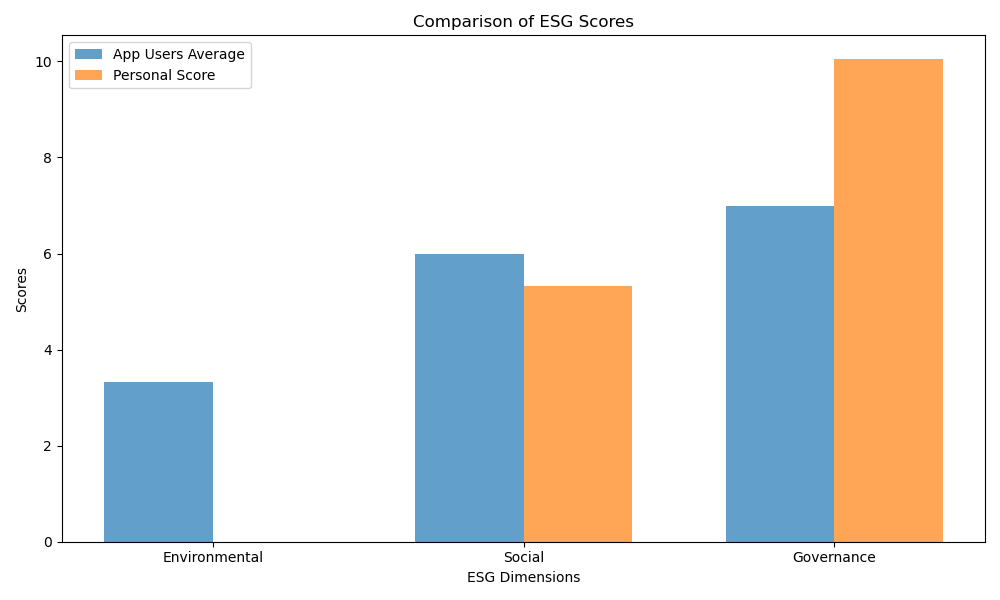
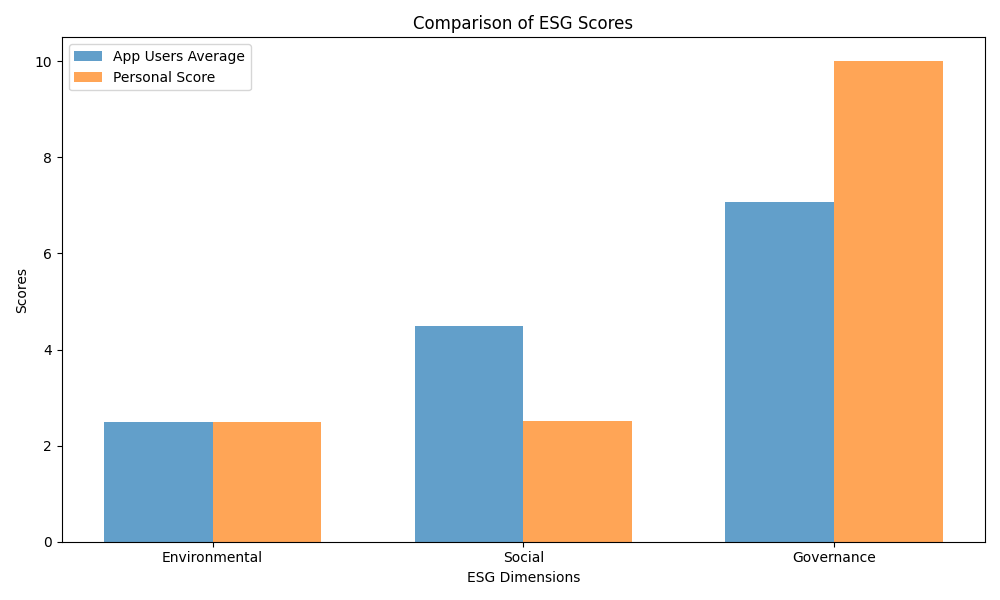
Updated layout with bar graph repositioned

diff --git a/templates/Dashboard.html b/templates/Dashboard.html
@@ -17,6 +17,7 @@
         <div class="title">{{ session['username'] }}'s <span class="green-text">ESG</span>Folio</div>
         <a href="{{ url_for('logout') }}" class="logout">LOGOUT</a>
     </header>
+
     <div class="container">
         <div class="search-bar">
             <span>Add New Stock</span>
@@ -25,6 +26,8 @@
                 <button type="submit">Search</button>
             </form>
         </div>
+
+        <!-- Rating placeholders -->
         <div class="placeholders-container">
             <div class="placeholder-box" style="{% if totalscore.portfolio_score is not none and totalscore.portfolio_score <= (avgtot[0]/2) %}background-color: red;{% elif totalscore.portfolio_score is not none and totalscore.portfolio_score <= avgtot[0] %}background-color: #FFD700;{% elif totalscore.portfolio_score is not none %}background-color: green;{% endif %}">
                 ESG RATING: {{ (totalscore[3] and maxtot[0]) and ((totalscore[3] / maxtot[0]) * 10) | round(2) or 'N/A' }}
@@ -39,6 +42,8 @@
                 Governmental RATING: {{ (totalscore[2] and maxtot[3]) and ((totalscore[2] * 10 / maxtot[3]) | round(2)) or 'N/A' }}
             </div>
         </div>
+
+        <!-- Table + Graphs stacked -->
         <div class="content">
             <div class="stock-table">
                 <table>
@@ -58,18 +63,10 @@
                         <tr>
                             <td>{{ loop.index }}</td>
                             <td>{{ stock[1] }}</td>
-                            <td style="{% if stock[2] is not none and stock[2] <= avgs[0] %}background-color: red;{% elif stock[2] is not none and stock[2] <= emed[0] %}background-color: #FFD700;{% elif stock[2] is not none %}background-color: green;{% endif %}">
-                                {{ (stock[2] and max[0]) and ((stock[2] * 10 / max[0]) | round(2)) or 'N/A' }}
-                            </td>
-                            <td style="{% if stock[3] is not none and stock[3] <= avgs[1] %}background-color: red;{% elif stock[3] is not none and stock[3] <= smed[0] %}background-color: #FFD700;{% elif stock[3] is not none %}background-color: green;{% endif %}">
-                                {{ (stock[3] and max[1]) and ((stock[3] * 10 / max[1]) | round(2)) or 'N/A' }}
-                            </td>
-                            <td style="{% if stock[4] is not none and stock[4] <= avgs[2] %}background-color: red;{% elif stock[4] is not none and stock[4] <= gmed[0] %}background-color: #FFD700;{% elif stock[4] is not none %}background-color: green;{% endif %}">
-                                {{ (stock[4] and max[2]) and ((stock[4] * 10 / max[2]) | round(2)) or 'N/A' }}
-                            </td>
-                            <td style="{% if stock[5] is not none and stock[5] <= totav[0] %}background-color: red;{% elif stock[5] is not none and stock[5] <= totmed[0] %}background-color: #FFD700;{% elif stock[5] is not none %}background-color: green;{% endif %}">
-                                {{ (stock[5] and max[3]) and ((stock[5] * 10 / max[3]) | round(2)) or 'N/A' }}
-                            </td>
+                            <td>{{ (stock[2] and max[0]) and ((stock[2] * 10 / max[0]) | round(2)) or 'N/A' }}</td>
+                            <td>{{ (stock[3] and max[1]) and ((stock[3] * 10 / max[1]) | round(2)) or 'N/A' }}</td>
+                            <td>{{ (stock[4] and max[2]) and ((stock[4] * 10 / max[2]) | round(2)) or 'N/A' }}</td>
+                            <td>{{ (stock[5] and max[3]) and ((stock[5] * 10 / max[3]) | round(2)) or 'N/A' }}</td>
                             <td>
                                 <a href="/dashboard/{{ stock[1] }}/delete" style="background-color: #1d2725; color: #fff; padding: 5px 10px; border-radius: 5px; text-decoration: none;">Delete</a>
                             </td>
@@ -78,6 +75,8 @@
                     </tbody>
                 </table>
             </div>
+
+            <!-- Graphs below table -->
             <div class="graphs">
                 {% if portfolio %}
                 <div class="graph-placeholder">
@@ -96,6 +95,8 @@
                 {% endif %}
             </div>
         </div>
+
+        <!-- Info Section -->
         <div>
             <h1>How Are Your Scores Calculated?</h1>
             <p>The scores each stock in your portfolio has received are scaled down to 10 using percentile methodology in comparison to all the stocks available in our database.</p>

diff --git a/static/Dashboard.css b/static/Dashboard.css
@@ -70,18 +70,35 @@ header {
     background-color: #53bc4a;
 }
 
+.search-bar button {
+    padding: 10px 20px;
+    font-size: 19px;
+    font-family: League Gothic, sans-serif;
+    background-color: #53bc4a;
+    color: white;
+    border: none;
+    cursor: pointer;
+    border-radius: 50px;
+    transition: background-color 0.3s ease;
+}
+
+.search-bar button:hover {
+    background-color: green;
+}
+
+/* Layout fix */
 .content {
     display: flex;
+    flex-direction: column; /* stack table and graphs vertically */
     width: 100%;
-    justify-content: space-between;
+    gap: 20px; /* space between table and graphs */
     font-family: League Gothic, sans-serif;
     font-size: 22px;
     font-weight: lighter;
 }
 
 .stock-table {
-    width: 67%;
-    margin-right: 1px; /* Add margin-right to create space between table and placeholders */
+    width: 100%;
 }
 
 .stock-table table {
@@ -102,7 +119,7 @@ header {
 .placeholders-container {
     display: flex;
     gap: 1px;
-    margin-bottom: 3px; /* Add margin-bottom to create space between placeholders and stock table */
+    margin-bottom: 20px; /* space between placeholders and stock table */
     width: 100%;
 }
 
@@ -116,52 +133,33 @@ header {
     font-family: League Gothic, sans-serif;
 }
 
+/* Graphs stacked */
 .graphs {
     display: flex;
     flex-direction: column;
-    gap: 2px; /* Space between the graphs */
-    width: 30%;
+    align-items: center;
+    gap: 20px; /* Space between graphs */
 }
 
-.graph-placeholder{
-    width: 400px;
-    height: 280px;
-    background-color:black;
-    color:black;
-    display: flex;
-    justify-content: center;
-    align-items: center;
-}
+.graph-placeholder,
 .graph-placeholder-radar {
     width: 400px;
-    height: 310px;
-    background-color:black;
-    color:black;
+    background-color: black;
     display: flex;
     justify-content: center;
     align-items: center;
 }
+
+.graph-placeholder {
+    height: 280px;
+}
+
+.graph-placeholder-radar {
+    height: 310px;
+}
+
 .graph-placeholder img,
 .graph-placeholder-radar img {
-    max-width: 150%;
+    max-width: 100%;
     max-height: 100%;
-}
-
-
-
-/* Add this CSS to style the search button */
-.search-bar button {
-    padding: 10px 20px;
-    font-size: 19px;
-    font-family: League Gothic, sans-serif;
-    background-color: #53bc4a;
-    color: white;
-    border: none;
-    cursor: pointer;
-    border-radius: 50px;
-    transition: background-color 0.3s ease;
-}
-
-.search-bar button:hover {
-    background-color: green;
 }
